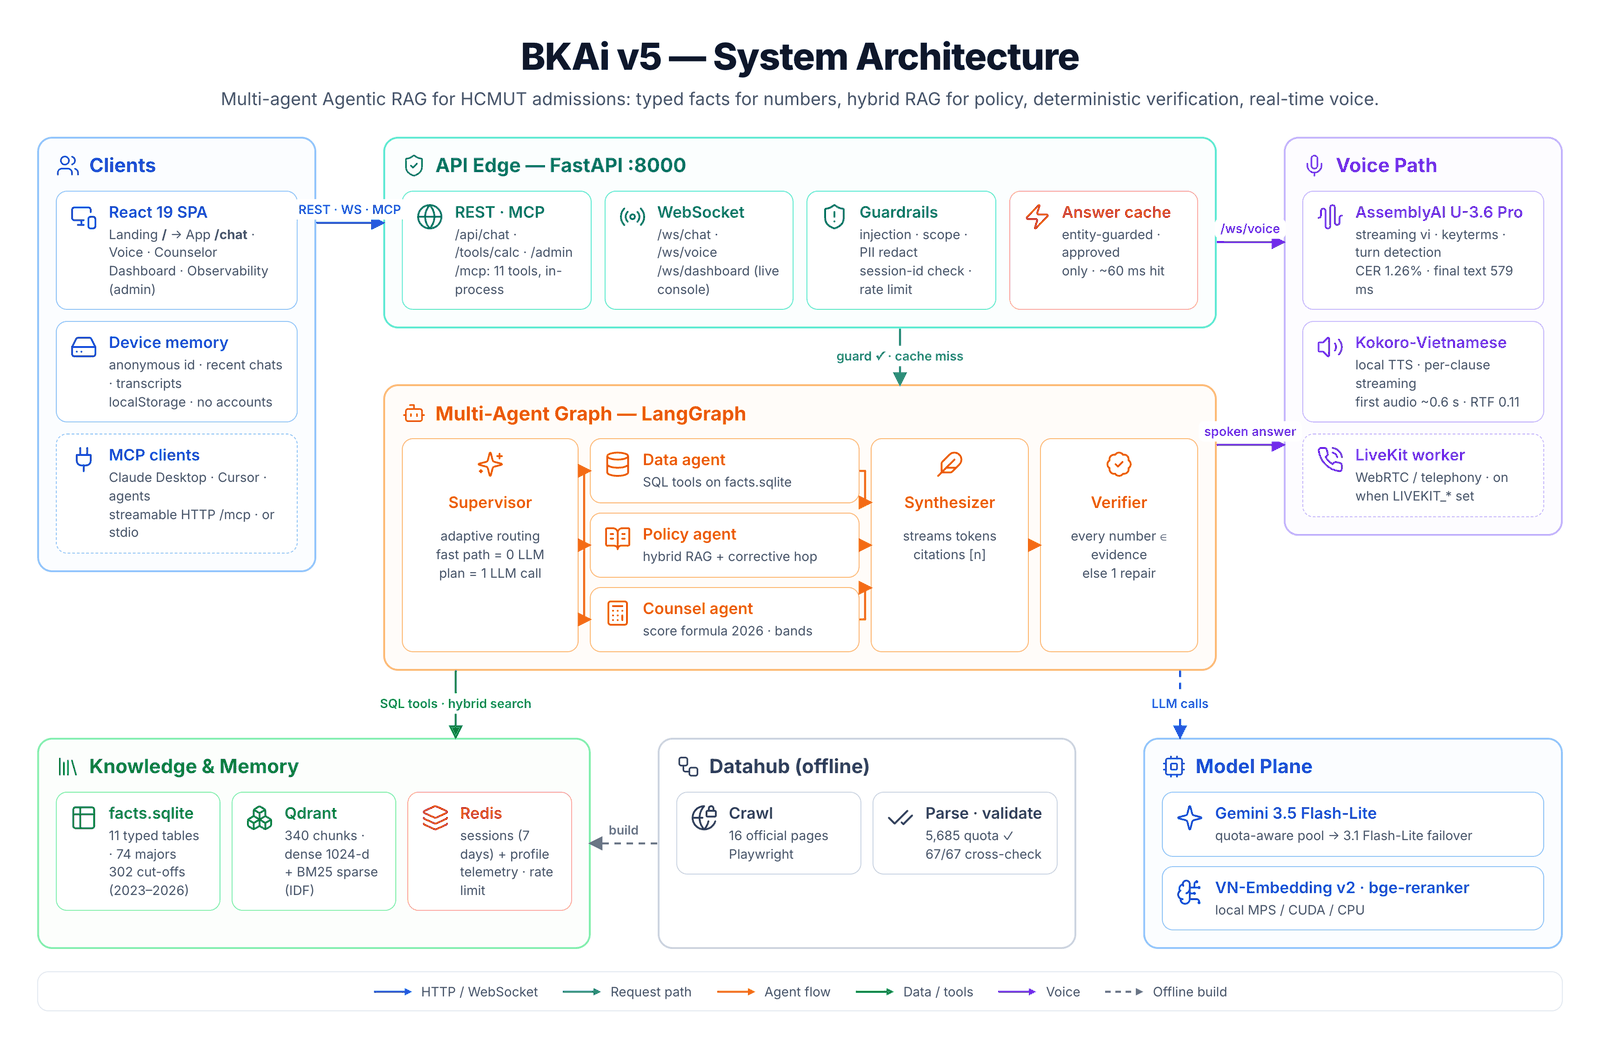
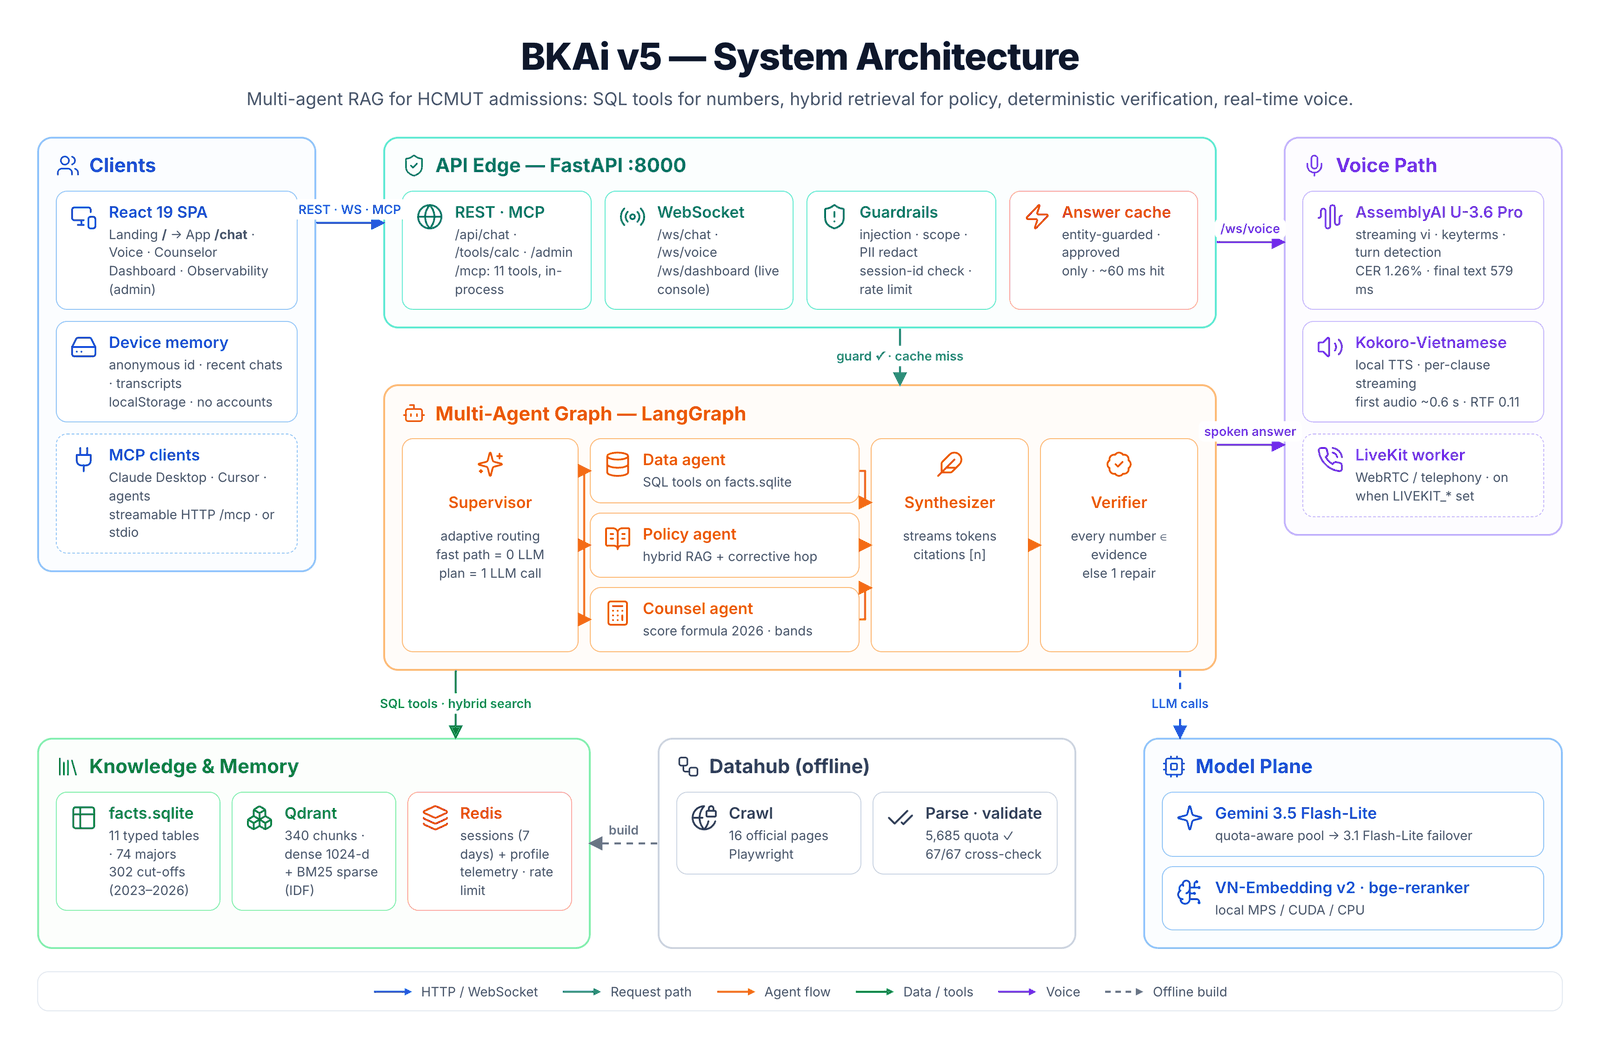
update

Changed region(s): [[0.1562, 0.0921, 0.8438, 0.1228]]

diff --git a/docs/diagrams/Diagram_System_Architecture.html b/docs/diagrams/Diagram_System_Architecture.html
@@ -9,7 +9,7 @@
 <div id="canvas" style="width:1720px">
   <svg id="wires"><defs></defs></svg>
   <h1 class="title">BKAi v5 — System Architecture</h1>
-  <p class="sub">Multi-agent Agentic RAG for HCMUT admissions: typed facts for numbers, hybrid RAG for policy, deterministic verification, real-time voice.</p>
+  <p class="sub">Multi-agent RAG for HCMUT admissions: SQL tools for numbers, hybrid retrieval for policy, deterministic verification, real-time voice.</p>
 
   <div class="row" style="gap:72px; align-items:flex-start">
     <!-- Clients -->

diff --git a/README.md b/README.md
@@ -1,10 +1,10 @@
 <p><img src="brand/bkai-lockup.png" alt="BKAi" height="44"/></p>
 
-# BKAi — Multi-Agent Admissions Counselor for HCMUT
+# BKAi — Multi-Agent RAG Admissions Counselor for HCMUT
 
 > **Vietnamese admissions counseling for Ho Chi Minh City University of Technology (HCMUT · ĐHQG-HCM), by chat and by voice.**<br/>
 > **Developed by:** Long Quan Ton<br/>
-> **Stack:** LangGraph multi-agent · Gemini 3.5 Flash-Lite · Qdrant hybrid search · SQL fact DB · MCP · AssemblyAI + Kokoro voice · React 19<br/>
+> **Stack:** LangGraph multi-agent RAG · Gemini 3.5 Flash-Lite · Qdrant hybrid retrieval (dense + BM25) · SQL fact tools · MCP · AssemblyAI + Kokoro voice · React 19<br/>
 > **Version:** 5.0.0 — [what changed since v1](VERSION.md) · [deployment & security](docs/DEPLOYMENT.md) · [manual test script](docs/MANUAL_TEST.md) · [landing page & 60-s film](frontend/video/README.md) · [brand](brand/BRAND.md)
 
 ---
@@ -14,6 +14,10 @@
 BKAi answers the questions Vietnamese high-school students actually ask HCMUT: cut-off scores by major, program
 and year, quotas, tuition, the 2026 combined-score formula, English certificate conversion, deadlines and campus life.
 It also works as a counselor: it computes a student's admission score and sorts majors into *safe / match / reach*.
+
+BKAi is a **multi-agent RAG** system. A Supervisor routes each question to specialist agents that run in parallel:
+the **Data agent** queries typed SQL tables for numbers, the **Policy agent** uses **hybrid retrieval** (dense + BM25, fused with RRF)
+for regulations, and the **Counsel agent** applies the official score formula. A Synthesizer writes the answer and a verifier checks it.
 
 Every number comes from **official hcmut.edu.vn pages**. They are crawled, validated and loaded into **typed SQL tables**.
 Agents query those tables through tools, write the answer with citations, and a **deterministic verifier** checks every
@@ -105,7 +109,7 @@ The film is rendered from HTML frame by frame, voiced by Kokoro-82M and scored i
 |---|---|
 | **Client** | React 19 SPA: landing page at `/`, chat at `/chat`, voice (AudioWorklet PCM16), calculator, dashboard, Observability popup. No accounts: memory is per device |
 | **API edge** | FastAPI: REST + `/ws/chat`, `/ws/voice`, `/ws/dashboard`, MCP at `/mcp`; rate limits, Origin allow-list, PII redaction |
-| **Agents** | LangGraph: Supervisor → Data / Policy / Counsel specialists (in parallel) → Synthesizer → Verifier |
+| **Agents** | LangGraph multi-agent RAG: Supervisor → Data / Policy / Counsel specialists (in parallel) → Synthesizer → Verifier |
 | **Tools** | 11 read-only tools, also published over **MCP** (in the API at `/mcp`, or `mcp_server.py` over stdio) |
 | **Knowledge** | `facts.sqlite` (11 tables) · Qdrant collection (340 chunks, dense + sparse) · answer cache collection |
 | **State** | Redis: anonymous sessions (7 days), student profile, telemetry, rate-limit counters · browser `localStorage`: device id, recent chats, transcripts |
@@ -221,7 +225,7 @@ python ingest.py           # chunk → embed → index into Qdrant
 
 ---
 
-## 5. Hybrid Retrieval
+## 5. Hybrid Retrieval (Policy agent)
 
 ![Hybrid Retrieval Engine](docs/image/Diagram_Hybrid_Retrieval_Engine.png)
 
@@ -254,9 +258,13 @@ Model selection used 80 labelled queries (50 policy + 30 major), testing 4 embed
 
 ---
 
-## 6. Multi-Agent Orchestration
+## 6. Multi-Agent RAG Orchestration
 
 ![Multi-Agent Orchestration](docs/image/Diagram_Multi_Agent_Orchestration.png)
+
+This is **multi-agent RAG**, with retrieval used selectively: numbers are never retrieved as text, they come from SQL tools.
+The LLM decides the path only where the question is ambiguous (the Supervisor's plan) or the evidence is weak (the corrective hop).
+Everything else is deterministic code, which keeps the average at 1.01 LLM calls per answer.
 
 | Node | LLM | Job |
 |---|---|---|
